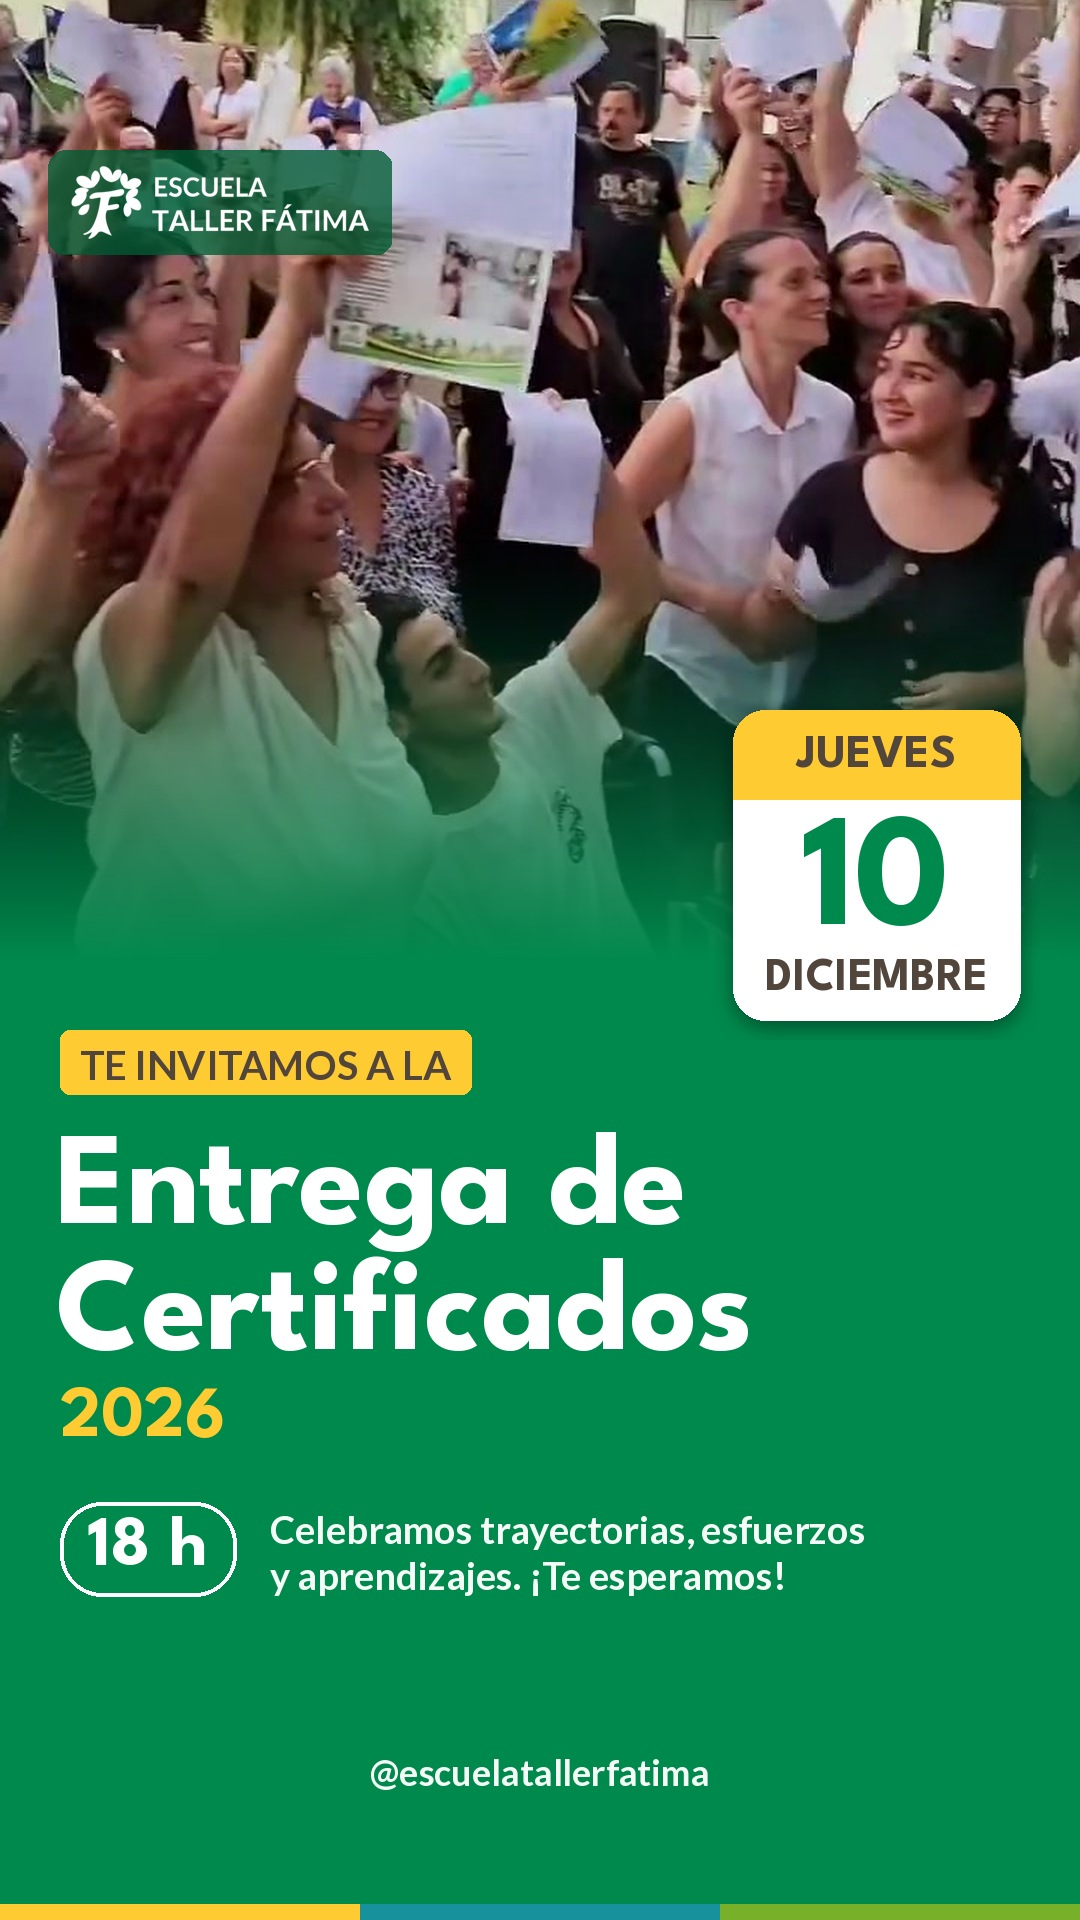
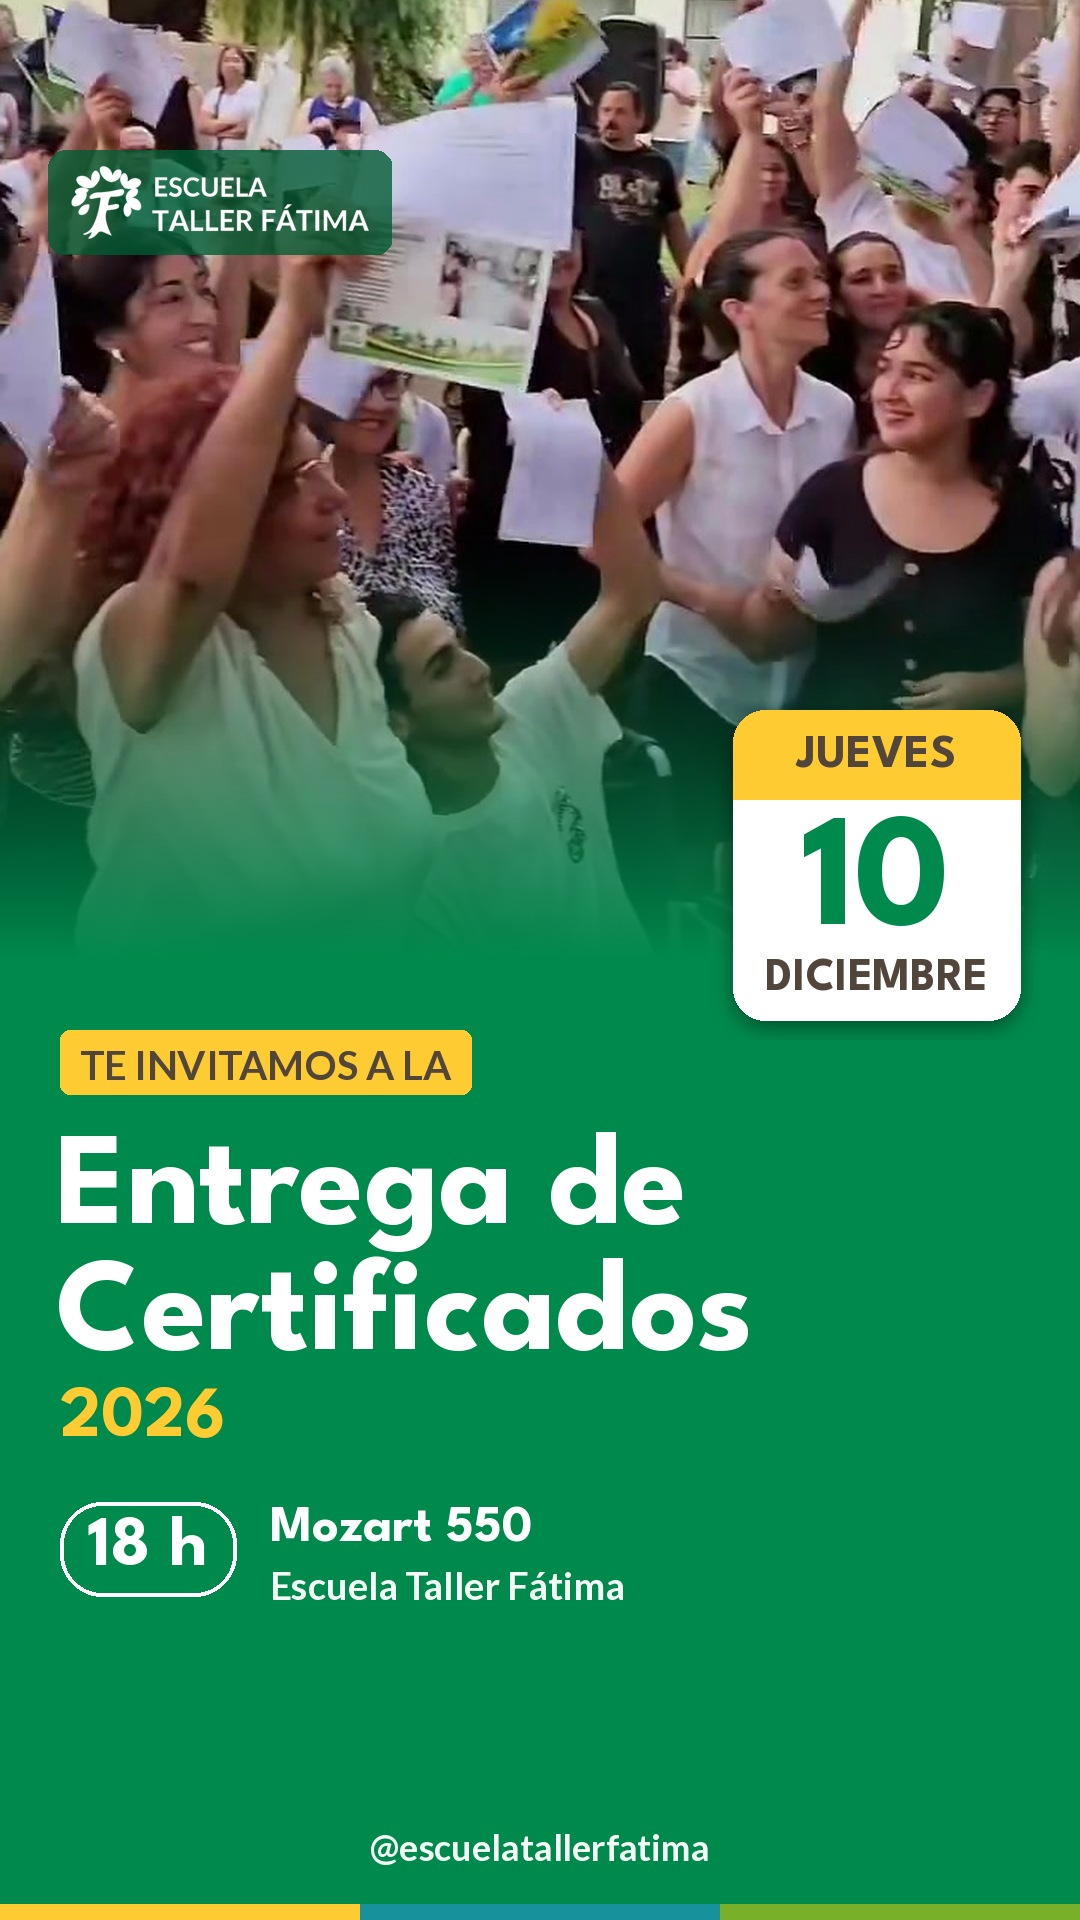
Fátima: invitación entrega certificados lun 30 + recordatorios mié 2 y dom 6
Claude-Session: https://claude.ai/code/session_01A1E79ha6BujniUrQ7LXZ3T

Changed region(s): [[0.2444, 0.7812, 0.7944, 0.8438], [0.3361, 0.9062, 0.6722, 0.9688]]

diff --git a/clientes/tallerfatima/plan/index.html b/clientes/tallerfatima/plan/index.html
@@ -63,7 +63,7 @@ footer a{color:var(--agua)}
     <div>
       <h1>Publicaciones para aprobar</h1>
       <p>Estas son las piezas preparadas para <strong>@escuelatallerfatima</strong>, con día, hora y texto. Están hechas con fotos y videos del banco de la escuela y con los colores y tipografías del manual de marca. <strong>Nada se publica sin aprobación.</strong> Lo que aprueben sale solo a la hora indicada.</p>
-      <div class="upd" id="upd">Última actualización: viernes 27/11/2026 · 11:45 h</div>
+      <div class="upd" id="upd">Última actualización: viernes 27/11/2026 · 11:35 h</div>
     </div>
     <aside class="how">
       <h2>Cómo aprobar</h2>

diff --git a/clientes/tallerfatima/herramientas/invitacion_certificados.py b/clientes/tallerfatima/herramientas/invitacion_certificados.py
@@ -1,0 +1,74 @@
+from PIL import Image, ImageDraw, ImageFont, ImageFilter, ImageEnhance
+SP=lambda s:ImageFont.truetype('/tmp/ttf/league-spartan-latin-700-normal.ttf',s)
+LB=lambda s:ImageFont.truetype('/tmp/ttf/lato-latin-700-normal.ttf',s)
+LR=lambda s:ImageFont.truetype('/tmp/ttf/lato-latin-400-normal.ttf',s)
+VERDE=(0,137,76); AMA=(255,203,51); MAR=(82,69,59); CREMA=(245,251,246); TURQ=(23,145,156); VCLARO=(120,176,42)
+LOGO='/home/claude/marcas/clientes/tallerfatima/marca/logo-blanco.png'
+def foto(path,w,h,cy=0.5,top_cut=0.17):
+    im=Image.open(path).convert('RGB'); W0,H0=im.size
+    im=im.crop((0,int(H0*top_cut),W0,H0))  # saca logos del video
+    W0,H0=im.size; k=max(w/W0,h/H0); im=im.resize((int(W0*k)+1,int(H0*k)+1),Image.LANCZOS)
+    x=(im.width-w)//2; y=int((im.height-h)*cy); im=im.crop((x,y,x+w,y+h))
+    im=ImageEnhance.Sharpness(im).enhance(1.4); return ImageEnhance.Color(im).enhance(1.08)
+def centrado(d,y,t,f,col,W):
+    d.text(((W-d.textlength(t,font=f))/2,y),t,font=f,fill=col)
+def calendario(c,x,y,s=1.0):
+    d=ImageDraw.Draw(c); w,h=int(250*s),int(270*s)
+    sh=Image.new('RGBA',(w+40,h+40),(0,0,0,0)); ImageDraw.Draw(sh).rounded_rectangle([20,26,w+20,h+26],int(28*s),fill=(0,0,0,110))
+    c.paste(sh.filter(ImageFilter.GaussianBlur(10)),(x-20,y-20),sh.filter(ImageFilter.GaussianBlur(10)))
+    d.rounded_rectangle([x,y,x+w,y+h],int(28*s),fill='white')
+    d.rounded_rectangle([x,y,x+w,y+int(78*s)],int(28*s),fill=AMA); d.rectangle([x,y+int(50*s),x+w,y+int(78*s)],fill=AMA)
+    f=SP(int(42*s)); t='JUEVES'; d.text((x+(w-d.textlength(t,font=f))/2,y+int(20*s)),t,font=f,fill=MAR)
+    f=SP(int(140*s)); t='10'; d.text((x+(w-d.textlength(t,font=f))/2,y+int(88*s)),t,font=f,fill=VERDE)
+    f=SP(int(40*s)); t='DICIEMBRE'; d.text((x+(w-d.textlength(t,font=f))/2,y+int(215*s)),t,font=f,fill=MAR)
+FALTAN=0
+def pieza(W,H,salida,story=False):
+    c=Image.new('RGB',(W,H),VERDE)
+    fh=int(H*(0.50 if story else 0.52))
+    c.paste(foto('festejo.jpg',W,fh,0.45),(0,0))
+    # degradé hacia el verde
+    g=Image.new('L',(1,fh)); 
+    for yy in range(fh): g.putpixel((0,yy),int(255*max(0,(yy-fh*0.55)/(fh*0.45))**1.3))
+    c.paste(Image.new('RGB',(W,fh),VERDE),(0,0),g.resize((W,fh)))
+    c=c.convert('RGBA'); d=ImageDraw.Draw(c)
+    # logo arriba
+    lg=Image.open(LOGO).convert('RGBA'); lg.thumbnail((300,150))
+    pad=Image.new('RGBA',(lg.width+44,lg.height+30),(0,0,0,0)); ImageDraw.Draw(pad).rounded_rectangle([0,0,pad.width,pad.height],18,fill=(0,90,50,200))
+    py=60 if not story else 150
+    c.alpha_composite(pad,(48,py)); c.alpha_composite(lg,(70,py+15))
+    # calendario
+    s=1.0 if not story else 1.15
+    calendario(c,W-int(250*s)-60,fh-int(270*s)+60,s)
+    d=ImageDraw.Draw(c)
+    y=fh+ (40 if not story else 70)
+    et='TE INVITAMOS A LA'; f=LB(36 if not story else 40)
+    d.rounded_rectangle([60,y,60+d.textlength(et,font=f)+40,y+(58 if not story else 64)],10,fill=AMA); d.text((80,y+10),et,font=f,fill=MAR)
+    y+= 84 if not story else 100
+    f=SP(118 if not story else 132)
+    for l in ['Entrega de','Certificados']:
+        d.text((56,y),l,font=f,fill='white'); y+= (112 if not story else 126)
+    f=SP(64 if not story else 72); d.text((60,y+4),'2026',font=f,fill=AMA)
+    y+= 100 if not story else 120
+    # hora
+    f=SP(62 if not story else 70); t='18 h'
+    d.rounded_rectangle([60,y,60+d.textlength(t,font=f)+56,y+(84 if not story else 94)],42,outline='white',width=4)
+    d.text((88,y+14),t,font=f,fill='white')
+    fr=LB(34 if not story else 38); 
+    xx=60+d.textlength(t,font=f)+90
+    d.text((xx,y+2),'Mozart 550',font=SP(46 if not story else 52),fill='white')
+    d.text((xx,y+(52 if not story else 60)),'Escuela Taller Fátima',font=fr,fill=CREMA)
+    if FALTAN:
+        y2=y+(140 if not story else 170)
+        txt=f'FALTAN {FALTAN} DÍAS'; ff=SP(60 if not story else 76)
+        tw=d.textlength(txt,font=ff)
+        d.rounded_rectangle([60,y2,60+tw+60,y2+(90 if not story else 110)],16,fill=AMA)
+        d.text((90,y2+(18 if not story else 22)),txt,font=ff,fill=MAR)
+    # franja inferior
+    d.rectangle([0,H-16,W//3,H],fill=AMA); d.rectangle([W//3,H-16,2*W//3,H],fill=TURQ); d.rectangle([2*W//3,H-16,W,H],fill=VCLARO)
+    if story:
+        f=LB(36); centrado(d,H-95,'@escuelatallerfatima',f,CREMA,W)
+    c.convert('RGB').save(salida,quality=93)
+pieza(1080,1350,'invitacion-posteo.jpg')
+pieza(1080,1920,'invitacion-historia.jpg',story=True)
+FALTAN=8; pieza(1080,1920,'recordatorio-8dias.jpg',story=True)
+FALTAN=4; pieza(1080,1920,'recordatorio-4dias.jpg',story=True)
